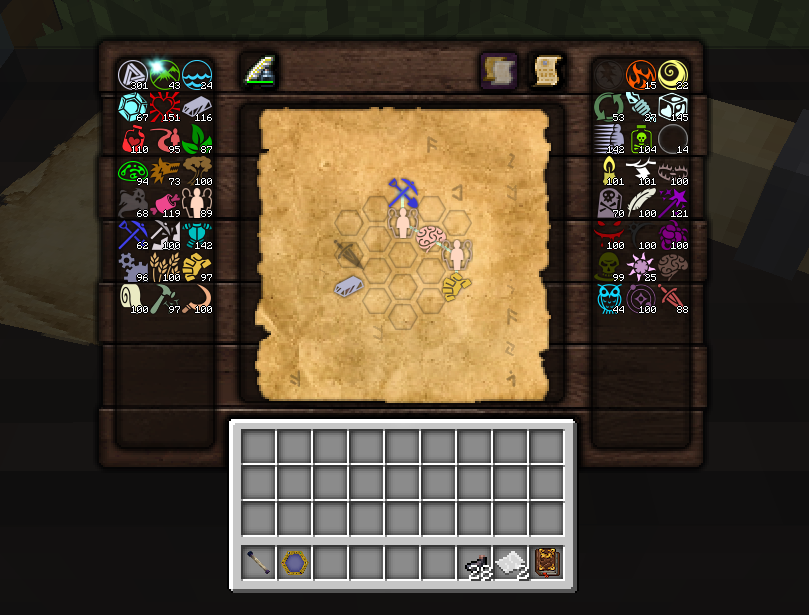
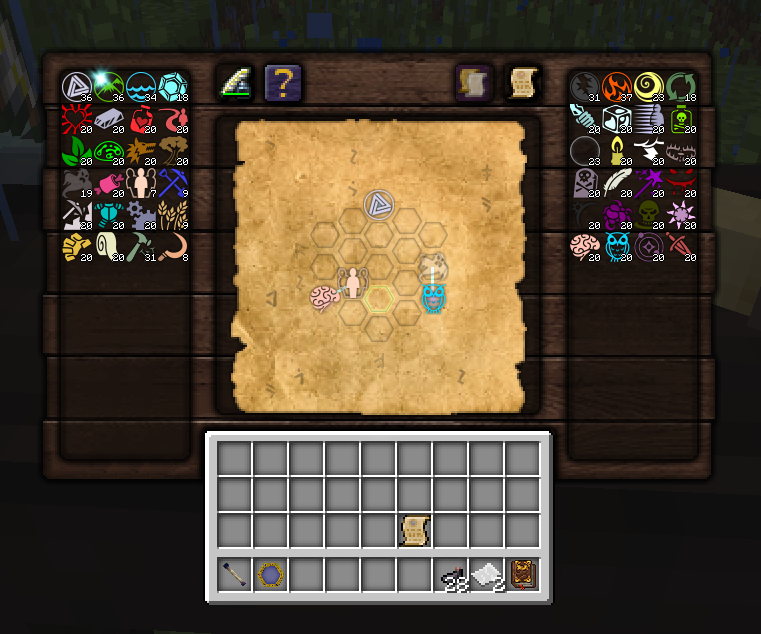
Feature table hint (#11)
* stop initialising aspect tree on FML init events to avoid skipping aspects created by other mods

* initialise aspect tree on FMLLoadCompleteEvent event to reduce load time on first UI opening

* describe solution to issue with missing aspects due to init order

* add texture sources to simplify future maintenance

* describe trivial maintenance and testing tips to simplify future updates

* update texture, tweak inventory and left pool origin, update readme, drop outdated psd

* add usage tooltip with placeholder texture and text

* add new texture for usage hint

* polish hint

---------

diff --git a/src/main/kotlin/elan/tweaks/thaumcraft/research/frontend/integration/table/gui/component/UsageHintUIComponent.kt b/src/main/kotlin/elan/tweaks/thaumcraft/research/frontend/integration/table/gui/component/UsageHintUIComponent.kt
@@ -1,0 +1,51 @@
+package elan.tweaks.thaumcraft.research.frontend.integration.table.gui.component
+
+import elan.tweaks.common.gui.component.BackgroundUIComponent
+import elan.tweaks.common.gui.component.MouseOverUIComponent
+import elan.tweaks.common.gui.component.UIContext
+import elan.tweaks.common.gui.dto.Rectangle
+import elan.tweaks.common.gui.dto.VectorXY
+import elan.tweaks.thaumcraft.research.frontend.domain.ports.provided.ResearcherKnowledgePort
+import elan.tweaks.thaumcraft.research.frontend.domain.ports.provided.ResearcherKnowledgePort.Knowledge
+import elan.tweaks.thaumcraft.research.frontend.integration.table.gui.layout.UsageHintLayout
+import elan.tweaks.thaumcraft.research.frontend.integration.table.gui.textures.UsageHintResearchExpertiseTexture
+import elan.tweaks.thaumcraft.research.frontend.integration.table.gui.textures.UsageHintTexture
+import net.minecraft.util.StatCollector
+
+class UsageHintUIComponent(
+    private val uiBounds: Rectangle,
+    private val onMouseOverBounds: Rectangle,
+    private val researcher: ResearcherKnowledgePort
+): BackgroundUIComponent, MouseOverUIComponent {
+
+    override fun onDrawBackground(uiMousePosition: VectorXY, partialTicks: Float, context: UIContext){
+        if(researcher.hasDiscovered(Knowledge.ResearchExpertise)) {
+            context.drawBlending(UsageHintResearchExpertiseTexture, uiBounds.origin)
+        } else {
+            context.drawBlending(UsageHintTexture, uiBounds.origin)
+        }
+    }
+
+    override fun onMouseOver(uiMousePosition: VectorXY, partialTicks: Float, context: UIContext) {
+        if (uiMousePosition in onMouseOverBounds) drawHint(uiMousePosition, context)
+    }
+
+    private fun drawHint(uiMousePosition: VectorXY, context: UIContext) {
+        val hintHeaderLine = StatCollector.translateToLocal("researchtable.usagehint.header")
+        val hintDescriptionLine = StatCollector.translateToLocal("researchtable.usagehint.description")
+
+        if(researcher.hasDiscovered(Knowledge.ResearchExpertise)) {
+            val hintResearchExpertise =
+                StatCollector.translateToLocal("researchtable.usagehint.research_expertise")
+            context.drawTooltipVerticallyCentered(
+                uiCenterPosition = uiMousePosition + UsageHintLayout.textBoxOffset,
+                hintHeaderLine, hintDescriptionLine, hintResearchExpertise
+            )
+        } else {
+            context.drawTooltipVerticallyCentered(
+                uiCenterPosition = uiMousePosition + UsageHintLayout.textBoxOffset,
+                hintHeaderLine, hintDescriptionLine
+            )
+        }
+    }
+}

diff --git a/src/main/kotlin/elan/tweaks/thaumcraft/research/frontend/integration/table/gui/ResearchTableGuiFactory.kt b/src/main/kotlin/elan/tweaks/thaumcraft/research/frontend/integration/table/gui/ResearchTableGuiFactory.kt
@@ -23,6 +23,7 @@ import elan.tweaks.thaumcraft.research.frontend.integration.table.gui.textures.R
 import elan.tweaks.thaumcraft.research.frontend.integration.table.gui.textures.ResearchTableInventoryTexture.AspectPools
 import elan.tweaks.thaumcraft.research.frontend.integration.table.gui.textures.ResearchTableInventoryTexture.CopyButton
 import elan.tweaks.thaumcraft.research.frontend.integration.table.gui.textures.ResearchTableInventoryTexture.ResearchArea
+import elan.tweaks.thaumcraft.research.frontend.integration.table.gui.textures.ResearchTableInventoryTexture.UsageHint
 import net.minecraft.entity.player.EntityPlayer
 import thaumcraft.api.aspects.Aspect
 import thaumcraft.common.tiles.TileResearchTable
@@ -39,6 +40,7 @@ object ResearchTableGuiFactory {
                     researchArea() +
                     copyButton() +
                     palletComponents() +
+                    UsageHintUIComponent(UsageHint.uiBounds, UsageHint.onMouseOverBounds, researcher) +
                     ScribeToolsNotificationUIComponent(research, ResearchArea.centerOrigin) +
                     AspectDragAndDropUIComponent(pallet) +
                     KnowledgeNotificationUIComponent()) { screenOrigin, fontRenderer ->

diff --git a/src/main/kotlin/elan/tweaks/thaumcraft/research/frontend/integration/table/gui/textures/ResearchTableInventoryTexture.kt b/src/main/kotlin/elan/tweaks/thaumcraft/research/frontend/integration/table/gui/textures/ResearchTableInventoryTexture.kt
@@ -40,7 +40,27 @@ object ResearchTableInventoryTexture :
     private const val SIZE_PIXEL = 18
     const val SIZE_WITH_SHADOW_PIXELS = SIZE_PIXEL + SHADOW_PIXELS
     private val uiOrigin = Vector2D(x = 207, y = 6)
-    val bounds = Rectangle(origin = uiOrigin, scale = Scale(SIZE_PIXEL, SIZE_PIXEL))
+    val bounds = Rectangle(
+        origin = uiOrigin,
+        scale = Scale.cube(SIZE_PIXEL)
+    )
     val requirementsUiOrigin = ResearchArea.bounds.origin + Vector2D(x = 6, y = 4)
   }
+
+  object UsageHint {
+      private const val SHADOW_PIXELS = 6
+      private const val SIZE_PIXEL = 18
+      const val SIZE_WITH_SHADOW_PIXELS = SIZE_PIXEL + SHADOW_PIXELS
+      private val uiOrigin = Vector2D(x = 111, y = 6)
+      val uiBounds = Rectangle(
+          origin = uiOrigin,
+          scale = Scale.cube(SIZE_WITH_SHADOW_PIXELS)
+      )
+      private val onMouseOverOrigin = Vector2D(x = 114, y = 10)
+      val onMouseOverBounds = Rectangle(
+          origin = onMouseOverOrigin,
+          scale = Scale.cube(SIZE_PIXEL)
+      )
+  }
+
 }

diff --git a/src/main/kotlin/elan/tweaks/common/gui/rendering/TooltipRenderer.kt b/src/main/kotlin/elan/tweaks/common/gui/rendering/TooltipRenderer.kt
@@ -22,8 +22,19 @@ object TooltipRenderer {
       fontRenderer: FontRenderer
   ) {
     val textScale = lines.textScale(fontRenderer)
-    val xOffset = Vector2D(textScale.width / 2, y = textScale.height / 2)
-    fontRenderer.draw(lines, textScale, origin = center - xOffset, subTipColorColorHex)
+    val offset = Vector2D(textScale.width / 2, y = textScale.height / 2)
+    fontRenderer.draw(lines, textScale, origin = center - offset, subTipColorColorHex)
+  }
+
+  fun drawVerticallyCentered(
+      lines: Array<out String>, 
+      center: VectorXY, 
+      subTipColorColorHex: String, 
+      fontRenderer: FontRenderer
+  ) {
+    val textScale = lines.textScale(fontRenderer)
+    val offset = Vector2D(x = 0, y = textScale.height / 2)
+    fontRenderer.draw(lines, textScale, origin = center - offset, subTipColorColorHex)
   }
 
   fun draw(

diff --git a/src/main/kotlin/elan/tweaks/thaumcraft/research/frontend/integration/table/gui/textures/UsageHintResearchExpertiseTexture.kt b/src/main/kotlin/elan/tweaks/thaumcraft/research/frontend/integration/table/gui/textures/UsageHintResearchExpertiseTexture.kt
@@ -1,0 +1,12 @@
+package elan.tweaks.thaumcraft.research.frontend.integration.table.gui.textures
+
+import elan.tweaks.common.gui.dto.Scale
+import elan.tweaks.common.gui.dto.UV
+import elan.tweaks.common.gui.textures.ThaumcraftTextureInstance
+
+object UsageHintResearchExpertiseTexture : ThaumcraftTextureInstance(
+    "research/table/research-table.png",
+    textureScale = Scale(width = 342, height = 245),
+    uv = UV(76, 220),
+    uvScale = Scale.cube(ResearchTableInventoryTexture.UsageHint.SIZE_WITH_SHADOW_PIXELS)
+)

diff --git a/src/main/kotlin/elan/tweaks/thaumcraft/research/frontend/integration/table/gui/textures/UsageHintTexture.kt b/src/main/kotlin/elan/tweaks/thaumcraft/research/frontend/integration/table/gui/textures/UsageHintTexture.kt
@@ -1,0 +1,12 @@
+package elan.tweaks.thaumcraft.research.frontend.integration.table.gui.textures
+
+import elan.tweaks.common.gui.dto.Scale
+import elan.tweaks.common.gui.dto.UV
+import elan.tweaks.common.gui.textures.ThaumcraftTextureInstance
+
+object UsageHintTexture : ThaumcraftTextureInstance(
+    "research/table/research-table.png",
+    textureScale = Scale(width = 342, height = 245),
+    uv = UV(51, 220),
+    uvScale = Scale.cube(ResearchTableInventoryTexture.UsageHint.SIZE_WITH_SHADOW_PIXELS)
+)

diff --git a/src/main/kotlin/elan/tweaks/thaumcraft/research/frontend/integration/table/TableUIContext.kt b/src/main/kotlin/elan/tweaks/thaumcraft/research/frontend/integration/table/TableUIContext.kt
@@ -77,6 +77,11 @@ class TableUIContext(
         TooltipRenderer.TextColors.LIGHT_BLUE,
         fontRenderer)
   }
+  override fun drawTooltipVerticallyCentered(uiCenterPosition: VectorXY, vararg text: String) {
+      TooltipRenderer.drawVerticallyCentered(
+          text, center = screenOrigin + uiCenterPosition, TooltipRenderer.TextColors.LIGHT_BLUE, fontRenderer
+      )
+  }
 
   override fun drawOrb(uiPosition: VectorXY, color: Int) {
     OrbParticle.draw(screenOrigin + uiPosition, color)

diff --git a/src/main/kotlin/elan/tweaks/common/gui/component/UIContext.kt b/src/main/kotlin/elan/tweaks/common/gui/component/UIContext.kt
@@ -30,6 +30,7 @@ interface UIContext {
 
   fun drawTooltip(uiPosition: VectorXY = Vector2D.ZERO, vararg text: String)
   fun drawTooltipCentered(uiCenterPosition: VectorXY = Vector2D.ZERO, vararg text: String)
+  fun drawTooltipVerticallyCentered(uiCenterPosition: VectorXY = Vector2D.ZERO, vararg text: String)
 
   fun drawOrb(uiPosition: VectorXY, color: Int)
   fun drawOrb(uiPosition: VectorXY)

diff --git a/src/main/kotlin/elan/tweaks/thaumcraft/research/frontend/integration/table/gui/layout/UsageHintLayout.kt b/src/main/kotlin/elan/tweaks/thaumcraft/research/frontend/integration/table/gui/layout/UsageHintLayout.kt
@@ -1,0 +1,7 @@
+package elan.tweaks.thaumcraft.research.frontend.integration.table.gui.layout
+
+import elan.tweaks.common.gui.dto.Vector2D
+
+object UsageHintLayout {
+    val textBoxOffset = Vector2D(12, 0)
+}

diff --git a/README.md b/README.md
@@ -33,7 +33,6 @@ Copy button is active only when all required components present (aspects, paper,
 
 ### Functional
 Nice to have
-- "Info" element (question mark icon?) which explains how to use the table
 - A way to switch (in-game?) to old UI in case a fallback needed
 - Configurable bonus aspect particle (change size/turn off)
 - Batch aspect combination in one packet (see PacketAspectCombinationToServer)
@@ -82,6 +81,21 @@ Useful commands:
 ```
 /thaum research Developer all
 ```
+
+## Known issues
+
+### Aspect from mod X is not showing up in the aspect pools.
+
+**Probable Cause**: Mod X creates its aspects on `FMLLoadCompleteEvent` or later
+which causes aspect caching of this mod to miss it.
+
+**Solutions**:
+1. Move aspect creation of mod X earlier (e.g. FMLInitializeEvent).
+   This would be a preferred solution since aspects should be created early if possible.
+2. Drop `AspectTree` initialization in `elan.tweaks.thaumcraft.research.frontend.integration.proxies.ClientSingletonInitializer`
+   (two lines, one creating the tree and second one printing).
+   This will cause caching on first UI opening.
+   This is not crucial, but somewhat reduces UX, since it will cause a small delay
 
 ## Known issues
 
